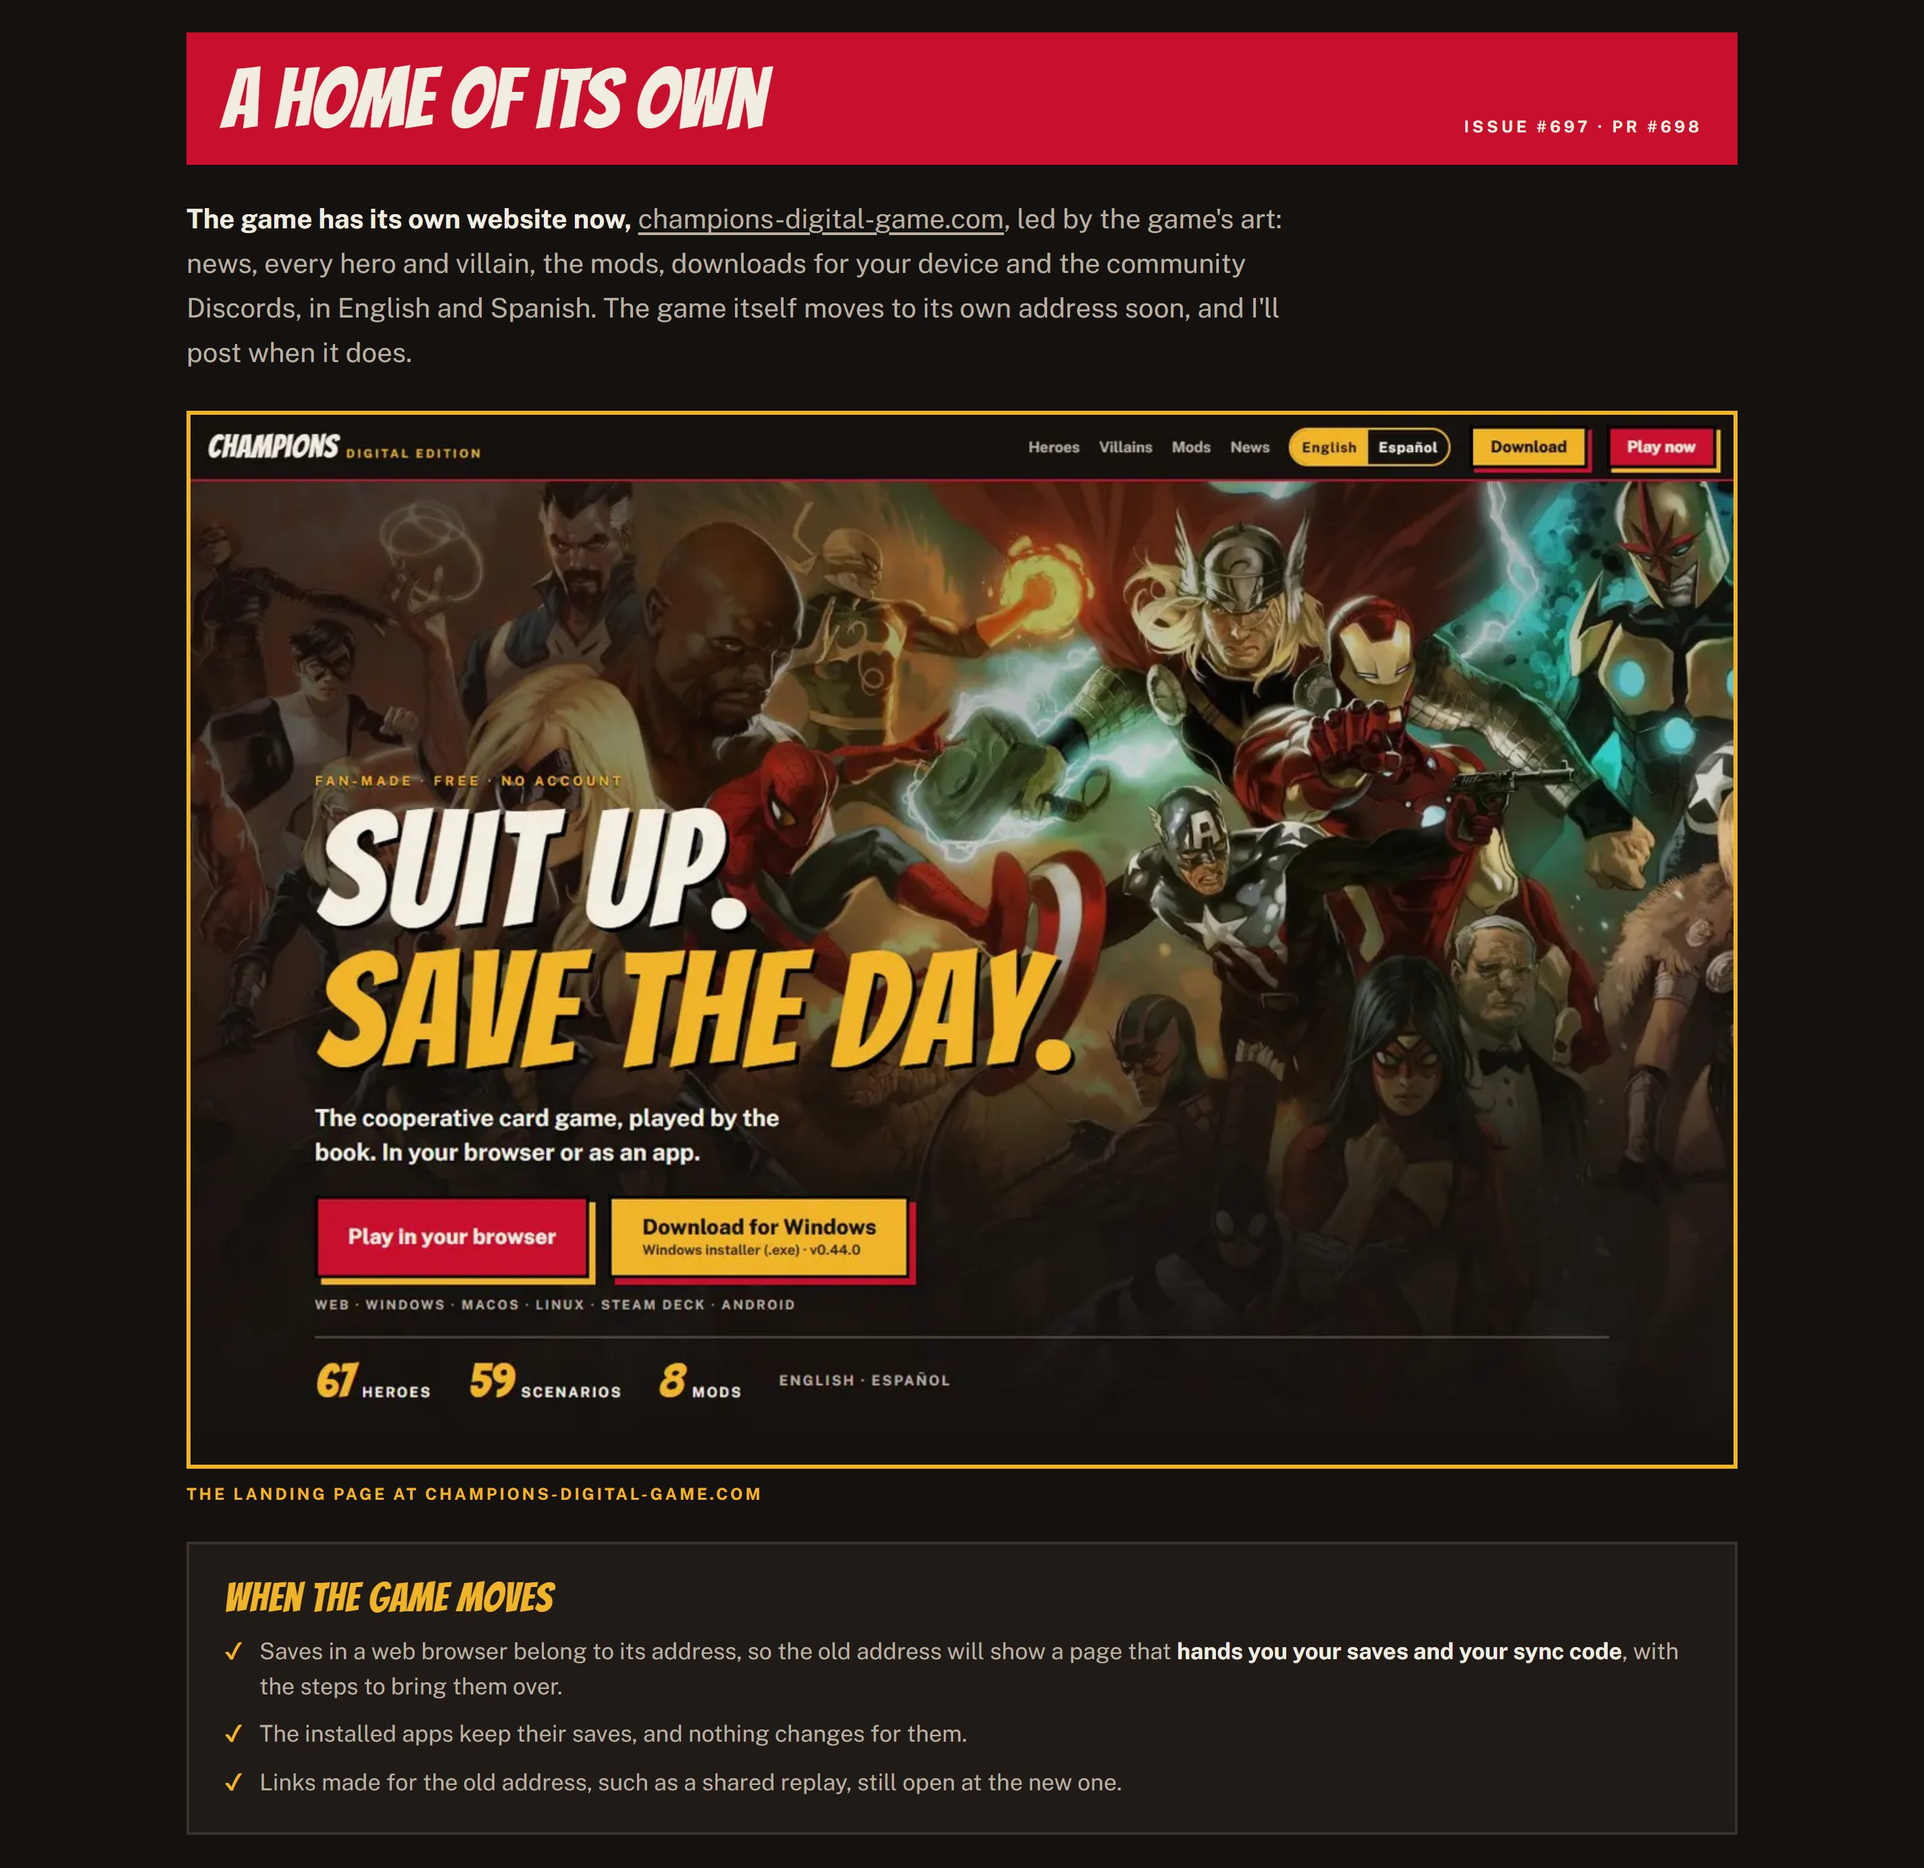
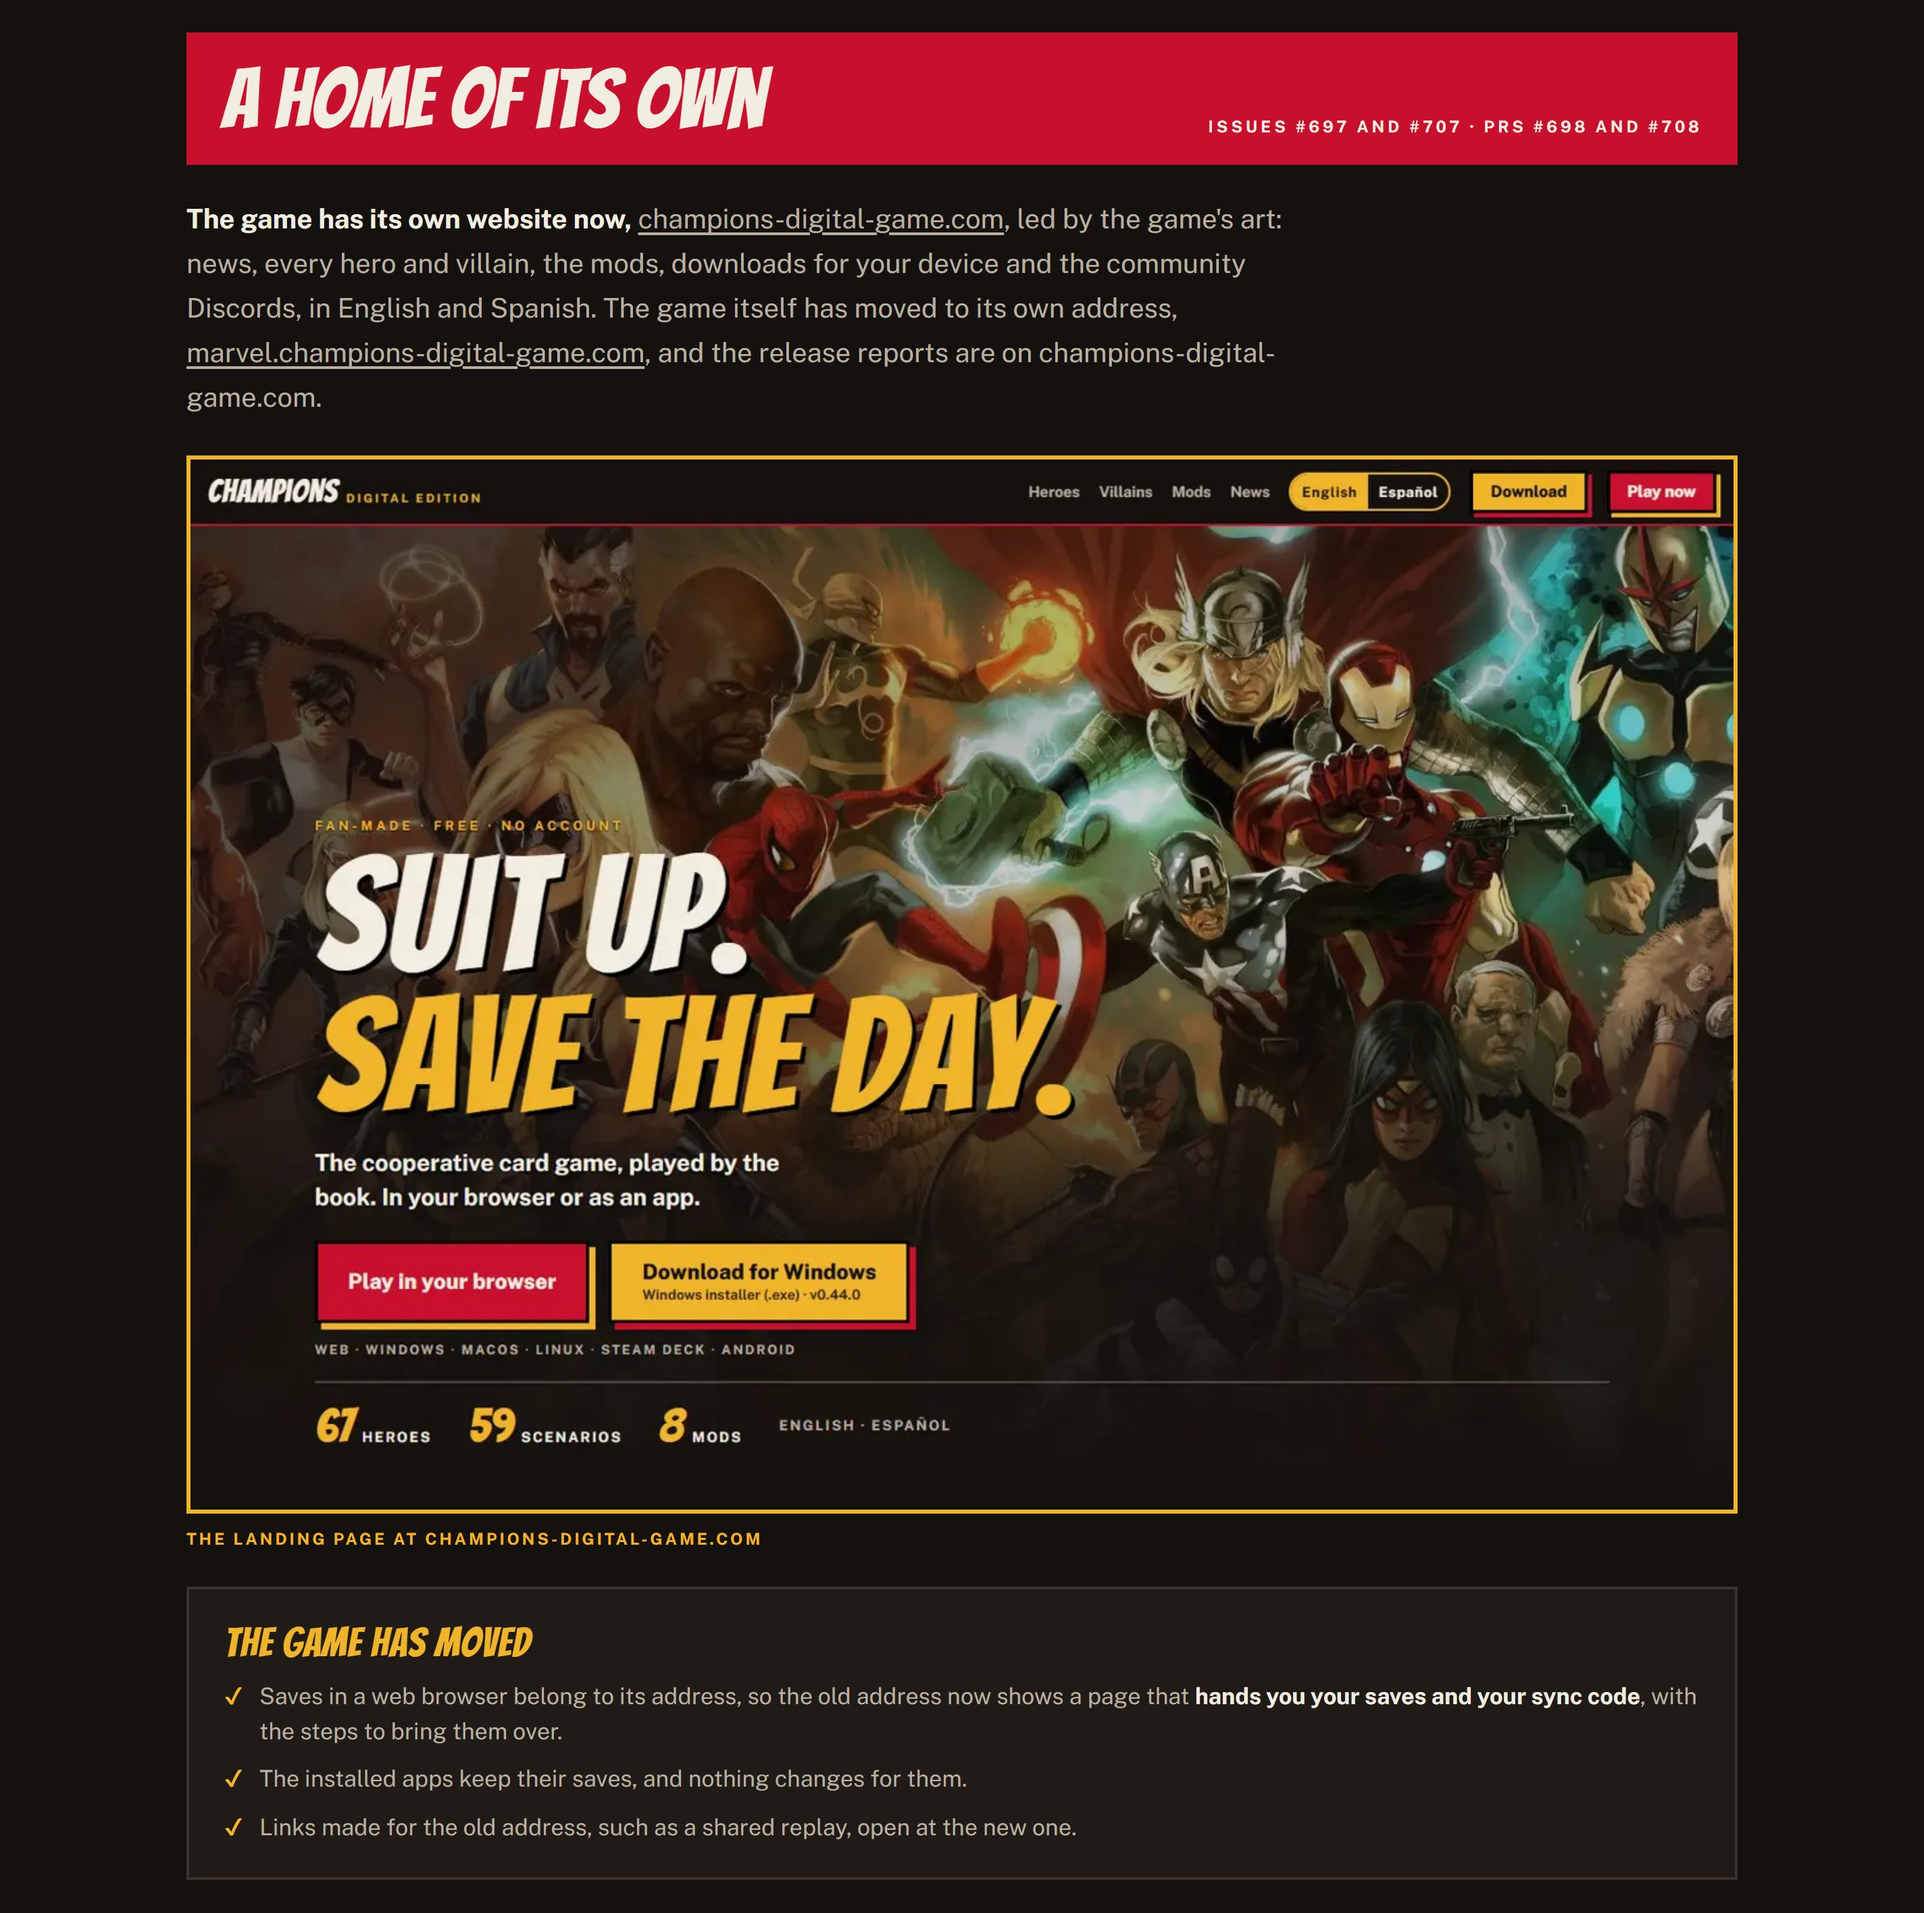
v0.45.0 announcement: #716's changelog line, Code shipped recounted, the moved and Code shipped images re-cut

Changed region(s): [[0.0938, 0.0311, 0.9062, 0.8087], [0.0938, 0.8398, 0.875, 0.9642]]

diff --git a/packages/client/public/releases/v0.45.0/index.html b/packages/client/public/releases/v0.45.0/index.html
@@ -982,17 +982,17 @@
         </div>
         <div class="tile">
           <h4>Files changed</h4>
-          <div class="n">1,258</div>
+          <div class="n">1,266</div>
           <p>across the engine, the cards, the client, the mod SDK and this report.</p>
         </div>
         <div class="tile">
           <h4>Lines added</h4>
-          <div class="n c-green">92,272</div>
+          <div class="n c-green">92,874</div>
           <p>the Mod Store, the SDK, replays, the new site and their tests.</p>
         </div>
         <div class="tile">
           <h4>Lines removed</h4>
-          <div class="n c-red">4,097</div>
+          <div class="n c-red">4,119</div>
           <p>across the same pull requests.</p>
         </div>
       </section>

diff --git a/docs/releases/es/v0.45.0.md b/docs/releases/es/v0.45.0.md
@@ -58,6 +58,7 @@ Los héroes y escenarios de la comunidad ahora se instalan desde el propio juego
 - Stealth Training ahora responde cuando derrotas exactamente Secure the Landing Pad, y el registro nombra el plan secundario en lugar de a Cosmo para la amenaza quitada y la derrota (#700)
 - Pasar entre Title, Extras y la Mod Store es fluido: cada pantalla aparece con un fundido cuando ya está dibujada del todo, en vez de irse rellenando y parpadear a medida que llegan sus textos, partidas guardadas e imágenes, y las pestañas de Extras cambian sin tirones
 - La línea de objetivo de un esbirro ya no repite sus puntos de vida cuando la vista previa del ataque ya los muestra
+- Extras llega con las imágenes de sus casillas ya puestas y aparece con un fundido sin saltos (la imagen gris de una casilla bloqueada se prepara una sola vez, fuera del hilo principal, en vez de filtrarse en cada fotograma), y el aviso de la primera visita a la Mod Store se abre con sus retratos y sus palabras (#716)
 
 ### Engine
 

diff --git a/docs/screenshots/releases/v0.45.0/github-release-body.md b/docs/screenshots/releases/v0.45.0/github-release-body.md
@@ -64,6 +64,7 @@ Community heroes and scenarios now install from inside the game: the Mod Store o
 - Stealth Training now responds when you exactly defeat Secure the Landing Pad, and the log names the side scheme instead of Cosmo for the threat removed and the defeat (#700)
 - Moving between Title, Extras and the Mod Store is smooth: each screen fades in once it is fully drawn instead of filling in and blinking as its text, saves and pictures arrive, and the Extras tabs switch without a hitch
 - A minion's target line no longer repeats its hit points when the attack preview already shows them
+- Extras arrives with its tile pictures in place and fades in without stepping (a locked tile's gray picture is baked once, off the main thread, instead of filtered every frame), and the Mod Store's first-visit notice opens with its portraits and words (#716)
 
 ### Engine
 
